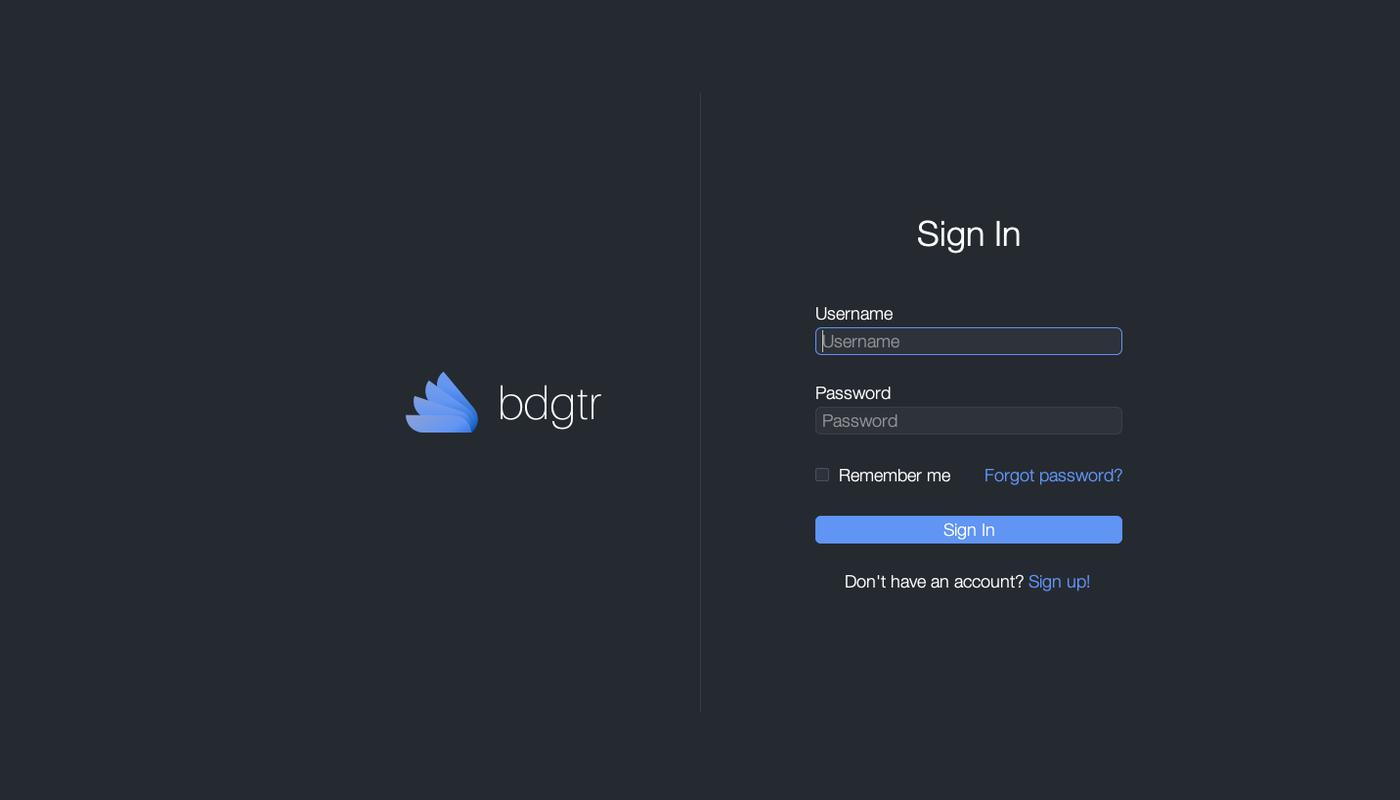
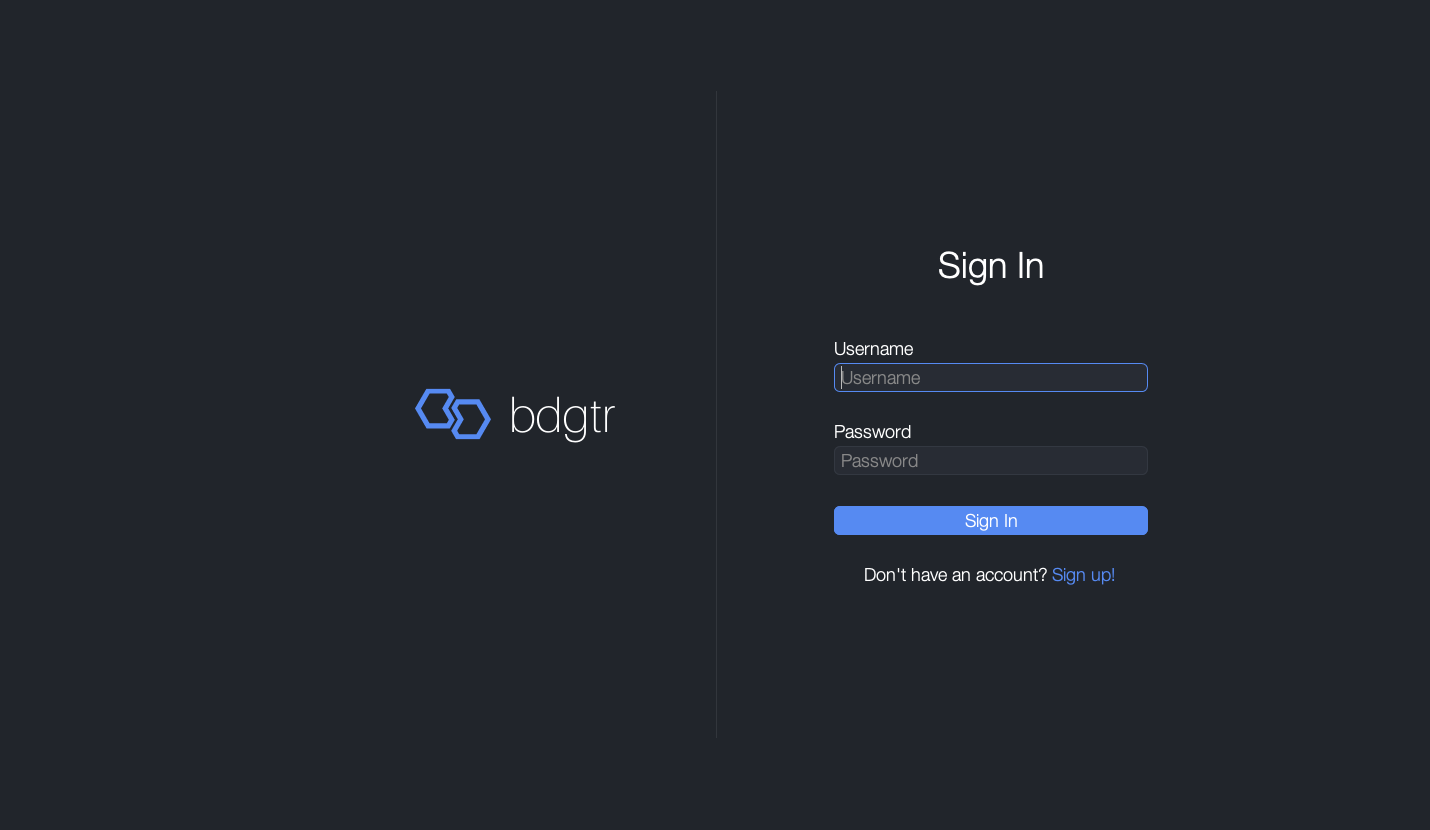
Updated screenshots and README.md

Changed region(s): [[0.5836, 0.375, 0.8293, 0.75], [0.2764, 0.4688, 0.43, 0.5625], [0.645, 0.2812, 0.7371, 0.3438]]

diff --git a/README.md b/README.md
@@ -13,8 +13,8 @@ View:
 * transaction history
 
 ## Screenshots
-![](screenshots/Bdgtr_Sign_In.png)
-![](screenshots/Bdgtr_Home.png)
+![image](screenshots/Bdgtr_Sign_In.png)
+![image](screenshots/Bdgtr_Home.png)
 
 ## Dependencies
 * [FlatLaf - Flat Look and Feel](https://github.com/JFormDesigner/FlatLaf)
